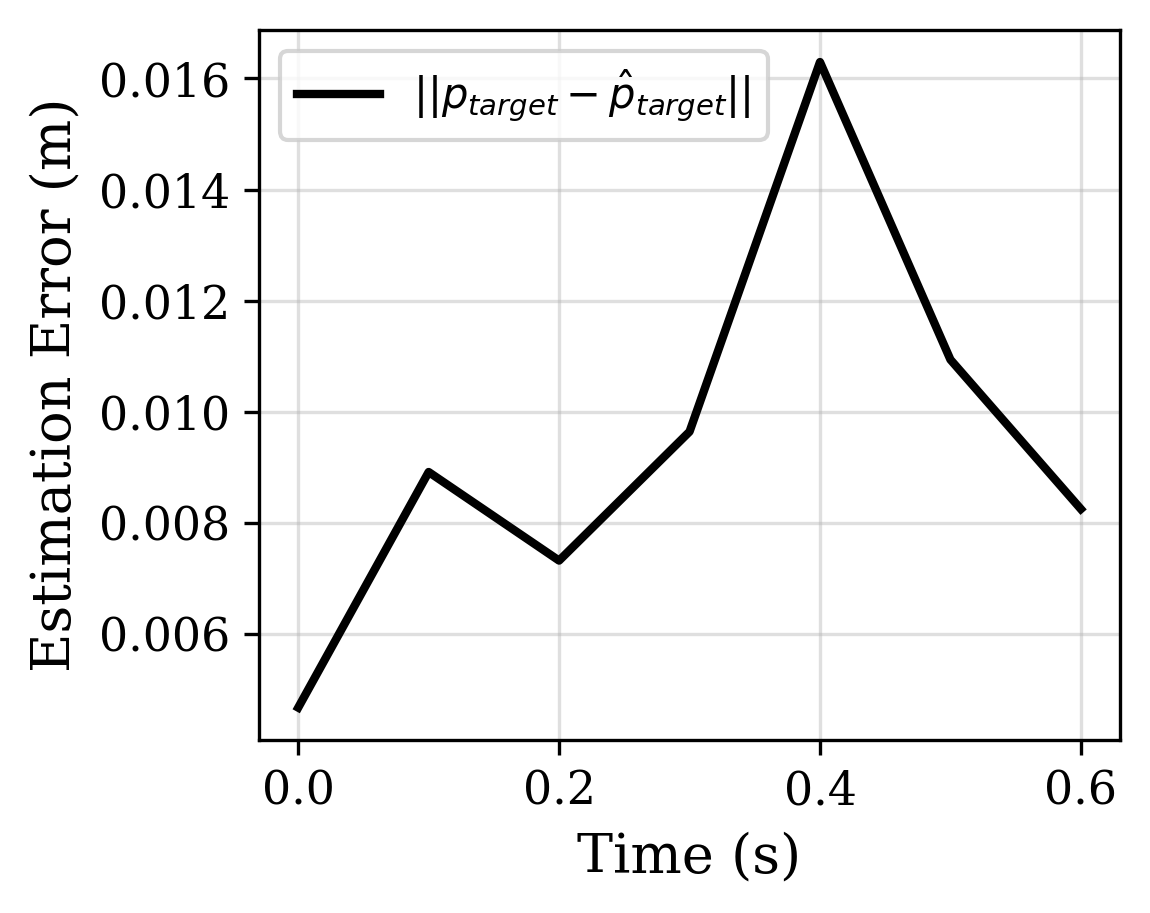
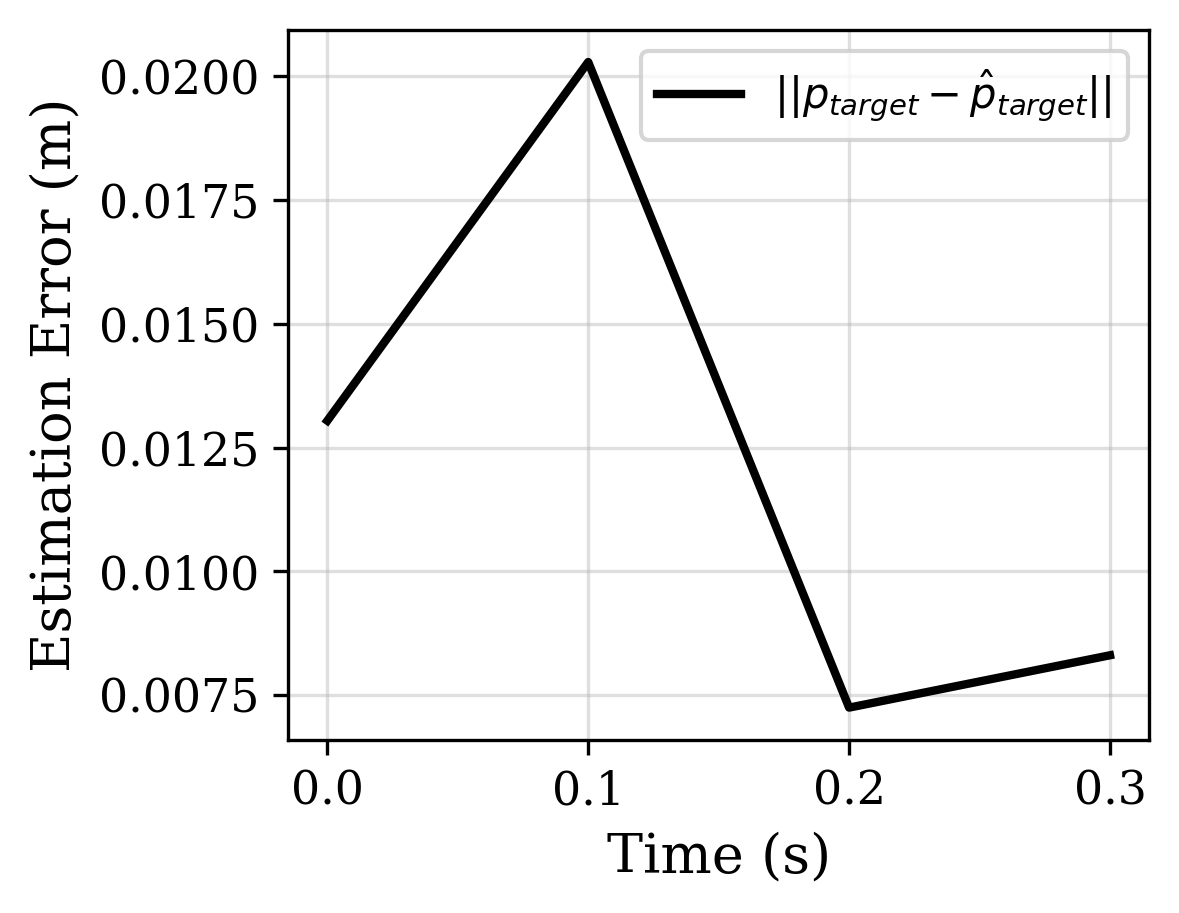
static case with plots

diff --git a/gym-pybullet-drones-main/gym_pybullet_drones/mujoco/SCP_static_EKF.py b/gym-pybullet-drones-main/gym_pybullet_drones/mujoco/SCP_static_EKF.py
@@ -349,154 +349,156 @@ with mujoco.viewer.launch_passive(model, data, key_callback=key_callback) as vie
     while viewer.is_running():
         step_start = time.time()
         
-        # --- 0. WIND DISTURBANCE PHYSICS (Random Walk) ---
-        wind_true += np.random.normal(0, 0.1, 3) * model.opt.timestep
-        wind_true = np.clip(wind_true, -2.5, 2.5) # Limit extreme hurricane winds
+        if not paused:
         
-        # Apply wind physically to the Target
-        v_target_true = v_target_true * 0.995 + wind_true * model.opt.timestep # 0.995 is slight drag
-        p_target_true += v_target_true * model.opt.timestep
-        
-        target_mocap_id = mujoco.mj_name2id(model, mujoco.mjtObj.mjOBJ_BODY, "target") # Change "target" to whatever it's named in your XML
-        data.mocap_pos[target_mocap_id] = p_target_true
-        
-        # Apply wind physically to the Chaser (External Force mapping)
-        data.qfrc_applied[0:3] = MASS * wind_true
-        
-        # --- 1. SENSOR READINGS ---
-        pos = data.qpos[0:3]
-        quat = data.qpos[3:7] 
-        lin_vel = data.qvel[0:3] 
-        ang_vel = data.qvel[3:6] 
-        
-        w, xq, yq, zq = quat
-        roll  = np.arctan2(2*(w*xq + yq*zq), 1 - 2*(xq**2 + yq**2))
-        pitch = np.arcsin(2*(w*yq - zq*xq))
-        yaw   = np.arctan2(2*(w*zq + xq*yq), 1 - 2*(yq**2 + zq**2))
+            # --- 0. WIND DISTURBANCE PHYSICS (Random Walk) ---
+            wind_true += np.random.normal(0, 0.1, 3) * model.opt.timestep
+            wind_true = np.clip(wind_true, -2.5, 2.5) # Limit extreme hurricane winds
+            
+            # Apply wind physically to the Target
+            v_target_true = v_target_true * 0.995 + wind_true * model.opt.timestep # 0.995 is slight drag
+            p_target_true += v_target_true * model.opt.timestep
+            
+            target_mocap_id = mujoco.mj_name2id(model, mujoco.mjtObj.mjOBJ_BODY, "target") # Change "target" to whatever it's named in your XML
+            data.mocap_pos[target_mocap_id] = p_target_true
+            
+            # Apply wind physically to the Chaser (External Force mapping)
+            data.qfrc_applied[0:3] = MASS * wind_true
+            
+            # --- 1. SENSOR READINGS ---
+            pos = data.qpos[0:3]
+            quat = data.qpos[3:7] 
+            lin_vel = data.qvel[0:3] 
+            ang_vel = data.qvel[3:6] 
+            
+            w, xq, yq, zq = quat
+            roll  = np.arctan2(2*(w*xq + yq*zq), 1 - 2*(xq**2 + yq**2))
+            pitch = np.arcsin(2*(w*yq - zq*xq))
+            yaw   = np.arctan2(2*(w*zq + xq*yq), 1 - 2*(yq**2 + zq**2))
 
-        # --- 2. NMPC OUTER LOOP (Runs at 10Hz) ---
-        if data.time - last_nmpc_time >= NMPC_DT:
-            chaser_hist.append(pos.copy()) 
-            if len(chaser_hist) > 200: chaser_hist.pop(0) 
-            
-            # ====================================================
-            # 1. TARGET ESTIMATION (6D EKF) - DO THIS FIRST!
-            # ====================================================
-            z_tar = p_target_true + np.random.normal(0, 0.01, 3)
-            x_tar_hat, P_tar = target_predict(x_tar_hat, P_tar)
-            x_tar_hat, P_tar = target_update(x_tar_hat, P_tar, z_tar)
-            p_tar_hat = x_tar_hat[0:3]
-
-            # ====================================================
-            # 2. CHASER ESTIMATION (9D EKF with Wind)
-            # ====================================================
-            z_cha = pos + np.random.normal(0, 0.01, 3)
-            x_hat, P_ekf = ekf_predict(x_hat, P_ekf, u_acc_prev)
-            x_hat, P_ekf = ekf_update(x_hat, P_ekf, z_cha)
-            
-            # Build 12D State for NMPC using EKF estimates (Pos/Vel/Wind)
-            state_12d = np.array([
-                x_hat[0], x_hat[1], x_hat[2],   # px, py, pz
-                x_hat[3], x_hat[4], x_hat[5],   # vx, vy, vz
-                roll, pitch, last_thrust_state, # roll, pitch, thrust
-                x_hat[6], x_hat[7], x_hat[8]    # wx, wy, wz (Live Wind Estimate)
-            ])
-            
-            # ====================================================
-            # 3. PHASE LOGIC & NMPC SOLVE
-            # ====================================================
-            # FSM triggers based strictly on ESTIMATED positions
-            dist_xy = np.linalg.norm(x_hat[0:2] - p_tar_hat[0:2])
-            if current_phase == 0 and dist_xy < 0.2:
-                current_phase = 1
-                print(f"[{data.time:.1f}s] FSM TRIGGER: Phase 1 (Cone) Activated!")
-
-            # Solve NMPC using 12D State
-            is_first = (last_nmpc_time < 0)
-            u_opt, step_cost, step_delta, step_trust = nmpc_planner.solve(
-                state_12d, p_tar_hat, current_phase, is_first_step=is_first
-            )
-            
-            # Extract NMPC commands
-            target_roll = u_opt[0]
-            target_pitch = u_opt[1]
-            target_acc = u_opt[2]
-            
-            # ====================================================
-            # 4. LOGGING & STATE PREP FOR NEXT LOOP
-            # ====================================================
-            x_hist.append(state_12d.copy())
-            tar_hist.append(p_target_true.copy())
-            tar_est_hist.append(p_tar_hat.copy())
-            u_hist.append(u_opt.copy())
-            time_steps_log.append(data.time)
-            cost_history.append(step_cost)
-            delta_history.append(step_delta)
-            trust_history.append(step_trust)
-            
-            # Convert NMPC [roll, pitch, thrust] into Cartesian [ax, ay, az] for the next EKF Predict step
-            u_acc_prev = np.array([
-                target_acc * np.sin(target_pitch),
-                -target_acc * np.sin(target_roll) * np.cos(target_pitch),
-                target_acc * np.cos(target_roll) * np.cos(target_pitch) - GRAVITY
-            ])
-            
-            last_thrust_state = target_acc 
-            last_nmpc_time = data.time
-            
-            # Print the live wind estimate so you can watch it learn!
-            print(f"NMPC Updated at t={data.time:.2f}s | Phase: {current_phase} | Est. Wind: [{x_hat[6]:.2f}, {x_hat[7]:.2f}, {x_hat[8]:.2f}] m/s²")
-        # --- 3. MUJOCO INNER LOOP (Runs at 500Hz) ---
-        # Convert NMPC Target Angles to Motor Torques
-        err_roll  = target_roll - roll
-        err_pitch = target_pitch - pitch
-        err_yaw   = 0.0 - yaw
-        
-        u_roll  = pd_roll.compute(err_roll,  0.0 - ang_vel[0])
-        u_pitch = pd_pitch.compute(err_pitch, 0.0 - ang_vel[1])
-        u_yaw   = pd_yaw.compute(err_yaw,    0.0 - ang_vel[2])
-        
-        # Convert NMPC Target Acceleration to physical Force
-        total_thrust = MASS * target_acc
-        
-        data.ctrl[0] = np.clip(total_thrust, 0, 0.35) 
-        data.ctrl[1] = -u_roll
-        data.ctrl[2] = -u_pitch
-        data.ctrl[3] = -u_yaw
-
-        mujoco.mj_step(model, data)
-        
-        
-        # --- 4. HOLOGRAPHIC VISUALIZATIONS ---
-        with viewer.lock():
-            viewer.user_scn.ngeom = 0 # Clear old lines
-            
-            # A. Draw Past Trajectory (Solid Red Line)
-            for i in range(len(chaser_hist)-1):
-                draw_line(viewer, chaser_hist[i], chaser_hist[i+1], np.array([1, 0, 0, 1]), width=2)
+            # --- 2. NMPC OUTER LOOP (Runs at 10Hz) ---
+            if data.time - last_nmpc_time >= NMPC_DT:
+                chaser_hist.append(pos.copy()) 
+                if len(chaser_hist) > 200: chaser_hist.pop(0) 
                 
-            # B. Draw SCP Lookahead Trajectory (Flickering Green Line)
-            # nmpc_planner.X_nom contains the 25-step future path
-            lookahead = nmpc_planner.X_nom[:, 0:3]
-            for i in range(len(lookahead)-1):
-                draw_line(viewer, lookahead[i], lookahead[i+1], np.array([0, 1, 0, 1]), width=4)
+                # ====================================================
+                # 1. TARGET ESTIMATION (6D EKF) - DO THIS FIRST!
+                # ====================================================
+                z_tar = p_target_true + np.random.normal(0, 0.01, 3)
+                x_tar_hat, P_tar = target_predict(x_tar_hat, P_tar)
+                x_tar_hat, P_tar = target_update(x_tar_hat, P_tar, z_tar)
+                p_tar_hat = x_tar_hat[0:3]
 
-            # C. Draw Proper Wireframe Docking Cone (Cyan)
-            # cone_apex = p_target_true
+                # ====================================================
+                # 2. CHASER ESTIMATION (9D EKF with Wind)
+                # ====================================================
+                z_cha = pos + np.random.normal(0, 0.01, 3)
+                x_hat, P_ekf = ekf_predict(x_hat, P_ekf, u_acc_prev)
+                x_hat, P_ekf = ekf_update(x_hat, P_ekf, z_cha)
+                
+                # Build 12D State for NMPC using EKF estimates (Pos/Vel/Wind)
+                state_12d = np.array([
+                    x_hat[0], x_hat[1], x_hat[2],   # px, py, pz
+                    x_hat[3], x_hat[4], x_hat[5],   # vx, vy, vz
+                    roll, pitch, last_thrust_state, # roll, pitch, thrust
+                    x_hat[6], x_hat[7], x_hat[8]    # wx, wy, wz (Live Wind Estimate)
+                ])
+                
+                # ====================================================
+                # 3. PHASE LOGIC & NMPC SOLVE
+                # ====================================================
+                # FSM triggers based strictly on ESTIMATED positions
+                dist_xy = np.linalg.norm(x_hat[0:2] - p_tar_hat[0:2])
+                if current_phase == 0 and dist_xy < 0.2:
+                    current_phase = 1
+                    print(f"[{data.time:.1f}s] FSM TRIGGER: Phase 1 (Cone) Activated!")
+
+                # Solve NMPC using 12D State
+                is_first = (last_nmpc_time < 0)
+                u_opt, step_cost, step_delta, step_trust = nmpc_planner.solve(
+                    state_12d, p_tar_hat, current_phase, is_first_step=is_first
+                )
+                
+                # Extract NMPC commands
+                target_roll = u_opt[0]
+                target_pitch = u_opt[1]
+                target_acc = u_opt[2]
+                
+                # ====================================================
+                # 4. LOGGING & STATE PREP FOR NEXT LOOP
+                # ====================================================
+                x_hist.append(state_12d.copy())
+                tar_hist.append(p_target_true.copy())
+                tar_est_hist.append(p_tar_hat.copy())
+                u_hist.append(u_opt.copy())
+                time_steps_log.append(data.time)
+                cost_history.append(step_cost)
+                delta_history.append(step_delta)
+                trust_history.append(step_trust)
+                
+                # Convert NMPC [roll, pitch, thrust] into Cartesian [ax, ay, az] for the next EKF Predict step
+                u_acc_prev = np.array([
+                    target_acc * np.sin(target_pitch),
+                    -target_acc * np.sin(target_roll) * np.cos(target_pitch),
+                    target_acc * np.cos(target_roll) * np.cos(target_pitch) - GRAVITY
+                ])
+                
+                last_thrust_state = target_acc 
+                last_nmpc_time = data.time
+                
+                # Print the live wind estimate so you can watch it learn!
+                print(f"NMPC Updated at t={data.time:.2f}s | Phase: {current_phase} | Est. Wind: [{x_hat[6]:.2f}, {x_hat[7]:.2f}, {x_hat[8]:.2f}] m/s²")
+            # --- 3. MUJOCO INNER LOOP (Runs at 500Hz) ---
+            # Convert NMPC Target Angles to Motor Torques
+            err_roll  = target_roll - roll
+            err_pitch = target_pitch - pitch
+            err_yaw   = 0.0 - yaw
             
-            final_target_pos = tar_hist[-1]
-            cone_apex = final_target_pos
+            u_roll  = pd_roll.compute(err_roll,  0.0 - ang_vel[0])
+            u_pitch = pd_pitch.compute(err_pitch, 0.0 - ang_vel[1])
+            u_yaw   = pd_yaw.compute(err_yaw,    0.0 - ang_vel[2])
             
-            cone_length = 1.0
-            cone_radius = cone_length * np.tan(np.radians(30)) # THETA = 30
-            for angle in np.linspace(0, 2*np.pi, 10, endpoint=False):
-                # base_pt = cone_apex + np.array([cone_radius*np.cos(angle), cone_radius*np.sin(angle), -cone_length])
-                base_pt = cone_apex + np.array([
-                        cone_radius*np.cos(angle),
-                        cone_radius*np.sin(angle),
-                        cone_length   # ✅ NOW it goes upward
-                    ])
-                draw_line(viewer, cone_apex, base_pt, np.array([0, 1, 1, 0.4]), width=2)
+            # Convert NMPC Target Acceleration to physical Force
+            total_thrust = MASS * target_acc
+            
+            data.ctrl[0] = np.clip(total_thrust, 0, 0.35) 
+            data.ctrl[1] = -u_roll
+            data.ctrl[2] = -u_pitch
+            data.ctrl[3] = -u_yaw
+
+            mujoco.mj_step(model, data)
+            
+            
+            # --- 4. HOLOGRAPHIC VISUALIZATIONS ---
+            with viewer.lock():
+                viewer.user_scn.ngeom = 0 # Clear old lines
+                
+                # A. Draw Past Trajectory (Solid Red Line)
+                for i in range(len(chaser_hist)-1):
+                    draw_line(viewer, chaser_hist[i], chaser_hist[i+1], np.array([1, 0, 0, 1]), width=2)
+                    
+                # B. Draw SCP Lookahead Trajectory (Flickering Green Line)
+                # nmpc_planner.X_nom contains the 25-step future path
+                lookahead = nmpc_planner.X_nom[:, 0:3]
+                for i in range(len(lookahead)-1):
+                    draw_line(viewer, lookahead[i], lookahead[i+1], np.array([0, 1, 0, 1]), width=4)
+
+                # C. Draw Proper Wireframe Docking Cone (Cyan)
+                # cone_apex = p_target_true
+                
+                final_target_pos = tar_hist[-1]
+                cone_apex = final_target_pos
+                
+                cone_length = 1.0
+                cone_radius = cone_length * np.tan(np.radians(30)) # THETA = 30
+                for angle in np.linspace(0, 2*np.pi, 10, endpoint=False):
+                    # base_pt = cone_apex + np.array([cone_radius*np.cos(angle), cone_radius*np.sin(angle), -cone_length])
+                    base_pt = cone_apex + np.array([
+                            cone_radius*np.cos(angle),
+                            cone_radius*np.sin(angle),
+                            cone_length   # ✅ NOW it goes upward
+                        ])
+                    draw_line(viewer, cone_apex, base_pt, np.array([0, 1, 1, 0.4]), width=2)
 
         viewer.sync()
 
